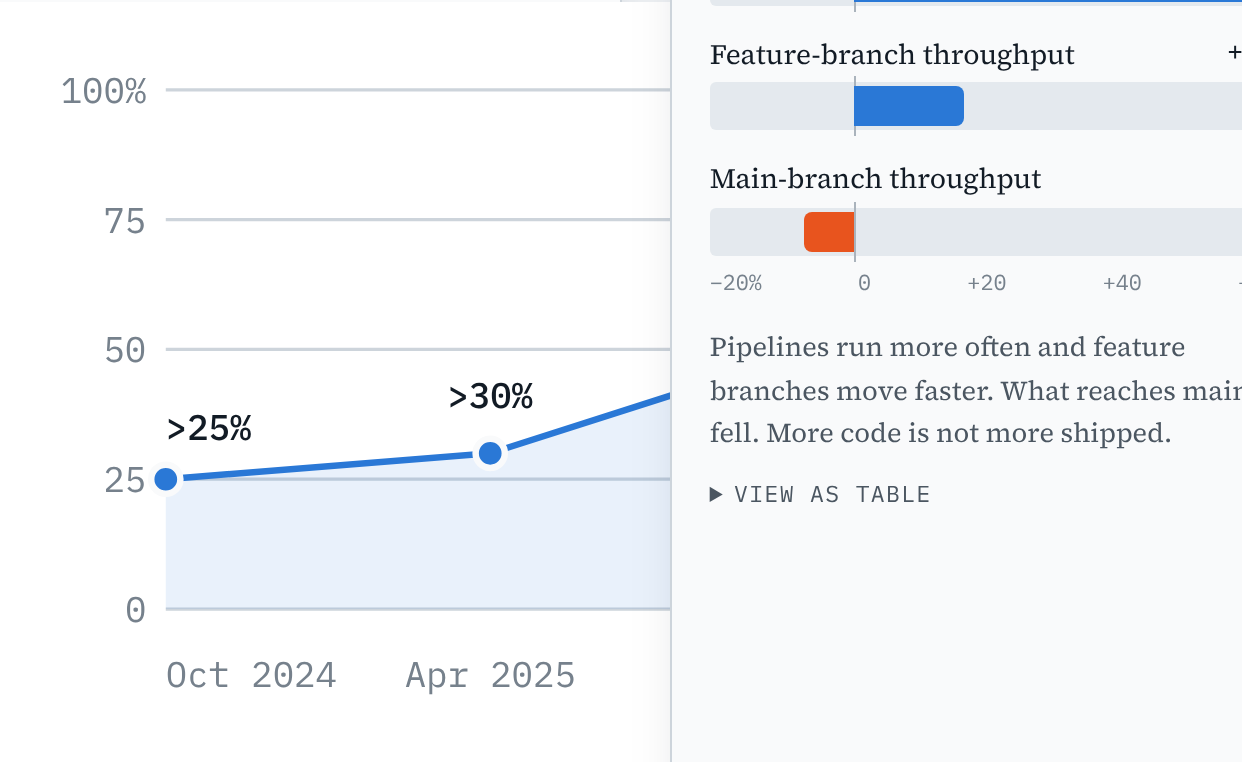
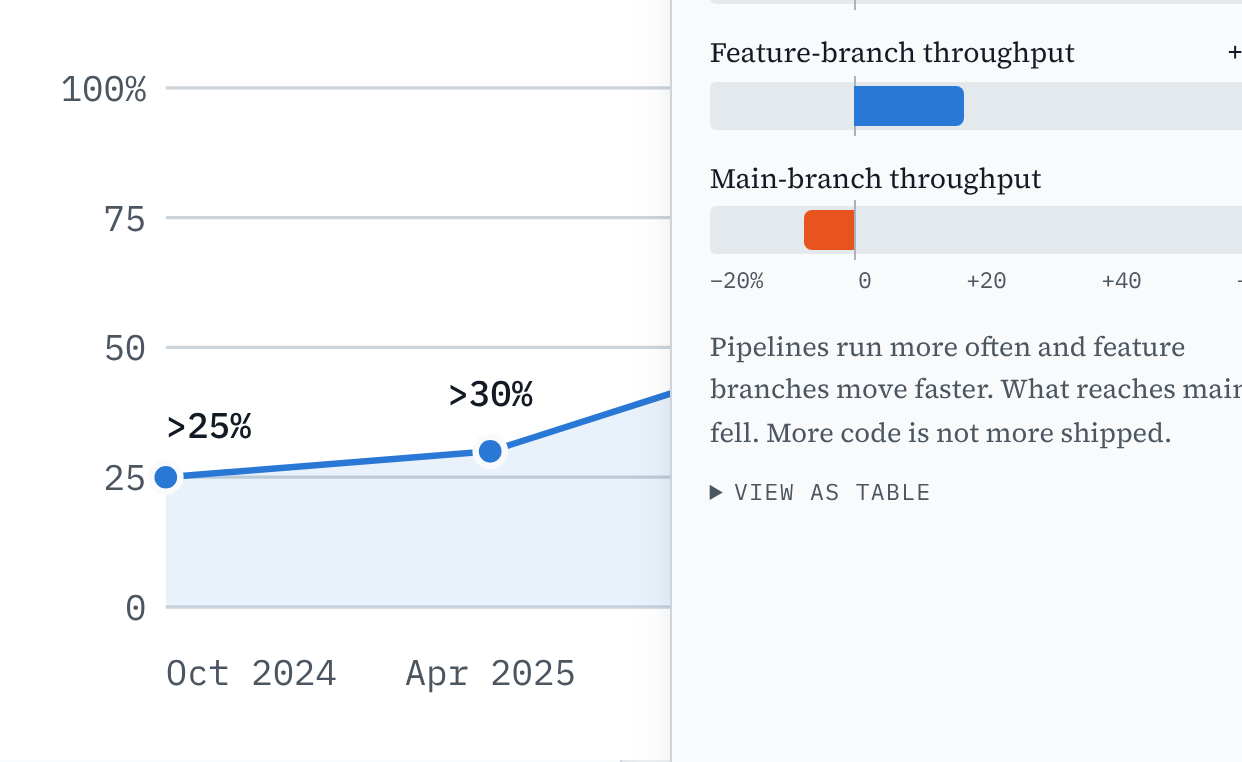
Phase 7: QA, README and PR material
- scripts/check-site.mjs: automated acceptance checks (one h1 and a
  lead per page, identical header, aria-current, links and anchors,
  every source cited, figures with role, label, caption and PNG, chart
  table views, home word budget, theme script order, sitemap, og images,
  no dashes, no overflow at five widths, no console errors, old-anchor
  redirects, theme persistence, live counters, no-JS rendering)
- Performance: the Google Fonts stylesheet no longer blocks render (with
  a noscript fallback), and metric-matched local fallback faces keep the
  font swap from shifting layout; Lighthouse mobile is 100/100/100/100 on
  home and 99/100/100/100 on the software factory page
- Accessibility: faint text raised to the muted token, permalink names
  include their visible text, citation tap areas enlarged, tooltip kept
  out of hit testing until shown
- README page list, file table and scripts; CONTRIBUTING updated for the
  multi-page layout, citations and writing rules
- docs/screenshots: home, software factory and three factories in light
  and dark for the pull request

Claude-Session: https://claude.ai/code/session_017GWBD8DaegsK6NQcPEY7no

diff --git a/assets/site.css b/assets/site.css
@@ -22,9 +22,9 @@
   --accent2: #4a3aa7;     /* model factory mark, shared-floor diagram only */
   --accent2-soft: rgba(74, 58, 167, 0.12);
   --shadow: 0 1px 0 rgba(18, 27, 37, 0.04), 0 12px 32px -20px rgba(18, 27, 37, 0.35);
-  --font-display: "Archivo", "Helvetica Neue", Arial, sans-serif;
-  --font-body: "Source Serif 4", Georgia, "Times New Roman", serif;
-  --font-mono: "IBM Plex Mono", ui-monospace, "SFMono-Regular", Menlo, Consolas, monospace;
+  --font-display: "Archivo", "Archivo Fallback", "Helvetica Neue", Arial, sans-serif;
+  --font-body: "Source Serif 4", "Source Serif 4 Fallback", Georgia, "Times New Roman", serif;
+  --font-mono: "IBM Plex Mono", "IBM Plex Mono Fallback", ui-monospace, "SFMono-Regular", Menlo, Consolas, monospace;
   --measure: 66ch;
   --frame: 1120px;
   --gutter: clamp(16px, 4vw, 40px);
@@ -73,6 +73,12 @@
   --shadow: 0 1px 0 rgba(0, 0, 0, 0.3), 0 12px 32px -20px rgba(0, 0, 0, 0.8);
   color-scheme: dark;
 }
+
+/* ---------- metric-matched fallbacks: the local fonts shown until the web fonts arrive are sized to the same
+   average width and vertical metrics, so the swap does not shift the layout ---------- */
+@font-face { font-family: "Archivo Fallback"; src: local("Arial"), local("Liberation Sans"), local("Helvetica Neue"), local("Helvetica"), local("Roboto"); size-adjust: 104.5%; ascent-override: 84.0%; descent-override: 20.1%; line-gap-override: 0%; }
+@font-face { font-family: "Source Serif 4 Fallback"; src: local("Times New Roman"), local("Liberation Serif"), local("Tinos"), local("Noto Serif"); size-adjust: 119.5%; ascent-override: 86.7%; descent-override: 28.0%; line-gap-override: 0%; }
+@font-face { font-family: "IBM Plex Mono Fallback"; src: local("Courier New"), local("Liberation Mono"), local("Cousine"), local("Roboto Mono"); size-adjust: 100.0%; ascent-override: 102.5%; descent-override: 27.5%; line-gap-override: 0%; }
 
 /* ---------- base ---------- */
 *, *::before, *::after { box-sizing: border-box; }
@@ -238,7 +244,7 @@ tbody tr:hover { background: var(--surface-2); }
 .stat.infra .side::before { background: var(--accent); }
 .stat .value { font-family: var(--font-display); font-weight: 800; font-stretch: 108%; font-size: clamp(2.2rem, 3.6vw, 3rem); line-height: 1; letter-spacing: -0.02em; }
 .stat .label { font-size: 0.98rem; line-height: 1.4; }
-.stat .src { font-family: var(--font-mono); font-size: 0.7rem; color: var(--faint); line-height: 1.4; align-self: end; }
+.stat .src { font-family: var(--font-mono); font-size: 0.72rem; color: var(--muted); line-height: 1.4; align-self: end; }
 
 /* charts */
 .charts { display: grid; grid-template-columns: 1fr; gap: 1.5rem; margin: 2rem 0; }
@@ -255,7 +261,7 @@ tbody tr:hover { background: var(--surface-2); }
 .chart th, .chart td { padding: 0.35rem 0.5rem; }
 .linechart { width: 100%; max-width: 620px; height: auto; font-family: var(--font-mono); }
 .linechart .grid { stroke: var(--line); stroke-width: 1; }
-.linechart .axis-text { fill: var(--faint); font-size: 11px; }
+.linechart .axis-text { fill: var(--muted); font-size: 11px; }
 .linechart .series { fill: none; stroke: var(--blue); stroke-width: 2; stroke-linejoin: round; stroke-linecap: round; }
 .linechart .area { fill: var(--blue); opacity: 0.1; }
 .linechart .pt { fill: var(--blue); stroke: var(--surface); stroke-width: 2; }
@@ -275,17 +281,17 @@ tbody tr:hover { background: var(--surface-2); }
 .bar-fill.hi { background: var(--accent); }
 .bar-fill:hover, .bar-fill:focus { filter: brightness(1.12); }
 .bar-val { font-family: var(--font-mono); font-size: 0.82rem; text-align: right; font-variant-numeric: tabular-nums; }
-.bar-axis { display: flex; justify-content: space-between; font-family: var(--font-mono); font-size: 0.68rem; color: var(--faint); margin-top: 0.3rem; }
+.bar-axis { display: flex; justify-content: space-between; font-family: var(--font-mono); font-size: 0.7rem; color: var(--muted); margin-top: 0.3rem; }
 .bar-axis-wrap { display: block; }
 .bar-axis-wrap > span { display: none; }
 
 /* tooltip */
 .tip {
-  position: fixed; z-index: 100; pointer-events: none; max-width: 280px;
+  position: fixed; left: 0; top: 0; z-index: 100; pointer-events: none; max-width: 280px; visibility: hidden;
   background: var(--fg); color: var(--bg); font-family: var(--font-mono); font-size: 0.74rem; line-height: 1.45;
   padding: 0.5rem 0.65rem; border-radius: 4px; box-shadow: var(--shadow); opacity: 0; transition: opacity 120ms;
 }
-.tip[data-show="true"] { opacity: 1; }
+.tip[data-show="true"] { opacity: 1; visibility: visible; }
 .tip strong { display: block; font-size: 0.95rem; font-family: var(--font-display); font-weight: 700; margin-bottom: 0.15rem; }
 
 /* symmetry */
@@ -566,7 +572,7 @@ blockquote.definition .permalink:hover { color: var(--accent-ink); }
 .copy-cite { border: 1px solid var(--line-strong); background: transparent; color: var(--muted); font: inherit; letter-spacing: inherit; text-transform: inherit; padding: 0.3rem 0.55rem; border-radius: 3px; cursor: pointer; }
 .copy-cite:hover { color: var(--fg); border-color: var(--accent); }
 .copy-cite[data-done="true"] { color: var(--accent-ink); border-color: var(--accent); }
-a.cite { text-decoration: none; color: var(--accent-ink); font-family: var(--font-mono); font-weight: 600; white-space: nowrap; }
+a.cite { text-decoration: none; color: var(--accent-ink); font-family: var(--font-mono); font-weight: 600; white-space: nowrap; padding: 0.45em 0.3em; margin: -0.45em -0.3em; }
 a.cite sup { font-size: 0.7em; line-height: 0; vertical-align: super; padding-left: 0.08em; }
 a.cite:hover sup { text-decoration: underline; }
 a.cite + a.cite sup::before { content: ","; margin-right: 0.12em; }
@@ -578,7 +584,7 @@ a.cite + a.cite sup::before { content: ","; margin-right: 0.12em; }
 .prevnext .k { font-family: var(--font-mono); font-size: 0.66rem; letter-spacing: 0.1em; text-transform: uppercase; color: var(--muted); }
 .prevnext .t { font-family: var(--font-display); font-weight: 650; font-size: 1.05rem; line-height: 1.25; }
 .prevnext a:hover .t { color: var(--accent-ink); }
-.site-footer .sep { margin: 0 0.45rem; color: var(--faint); }
+.site-footer .sep { margin: 0 0.45rem; color: var(--muted); }
 figure.fig .png, figure.chart .png { font-family: var(--font-mono); font-size: 0.68rem; letter-spacing: 0.06em; text-transform: uppercase; margin-left: 0.6rem; white-space: nowrap; }
 .demo-counters.teaser { border: 1px solid var(--line); border-radius: var(--radius); background: var(--surface); box-shadow: var(--shadow); }
 

diff --git a/software-factory/index.html b/software-factory/index.html
@@ -24,8 +24,9 @@
 <script>(function(){try{var t=localStorage.getItem("infra-factory-theme");if(t==="light"||t==="dark"){document.documentElement.setAttribute("data-theme",t);}}catch(e){}})();</script>
 <link rel="preconnect" href="https://fonts.googleapis.com">
 <link rel="preconnect" href="https://fonts.gstatic.com" crossorigin>
-<link rel="stylesheet" href="https://fonts.googleapis.com/css2?family=Archivo:ital,wdth,wght@0,62..125,100..900;1,62..125,100..900&family=IBM+Plex+Mono:wght@400;500;600&family=Source+Serif+4:ital,opsz,wght@0,8..60,300..800;1,8..60,300..800&display=swap">
 <link rel="stylesheet" href="/assets/site.css">
+<link rel="preload" as="style" href="https://fonts.googleapis.com/css2?family=Archivo:ital,wdth,wght@0,62..125,100..900;1,62..125,100..900&family=IBM+Plex+Mono:wght@400;500;600&family=Source+Serif+4:ital,opsz,wght@0,8..60,300..800;1,8..60,300..800&display=swap" onload="this.onload=null;this.rel='stylesheet'">
+<noscript><link rel="stylesheet" href="https://fonts.googleapis.com/css2?family=Archivo:ital,wdth,wght@0,62..125,100..900;1,62..125,100..900&family=IBM+Plex+Mono:wght@400;500;600&family=Source+Serif+4:ital,opsz,wght@0,8..60,300..800;1,8..60,300..800&display=swap"></noscript>
 </head>
 <body data-page="software-factory">
 <a class="skip" href="#main">Skip to content</a>
@@ -65,7 +66,7 @@
     </div>
     <blockquote class="definition" id="sf-definition" data-cite="Körbächer, M. (2026). The Infrastructure Factory. https://infrastructure-factory.com/software-factory/">
       <p>A software factory is a codified, largely automated production system that carries work through the entire software lifecycle: from incoming signals (requests, bugs, alerts) through planning, implementation, verification and release to monitoring. Agents do most of the execution inside standardized workflows and quality gates, humans set intent and approve at defined checkpoints, and the system measures its own runs and feeds what it learns back into itself. Engineers build and tune the factory; the factory builds the product.</p>
-      <footer><a class="permalink" href="#sf-definition" aria-label="Permalink to the software factory definition">#sf-definition</a><button type="button" class="copy-cite">Copy citation</button></footer>
+      <footer><a class="permalink" href="#sf-definition" aria-label="#sf-definition, permalink">#sf-definition</a><button type="button" class="copy-cite">Copy citation</button></footer>
     </blockquote>
     <h3>Shared by N of 13 sources</h3>
     <div class="table-wrap stack consensus">

diff --git a/infrastructure-factory/index.html b/infrastructure-factory/index.html
@@ -24,8 +24,9 @@
 <script>(function(){try{var t=localStorage.getItem("infra-factory-theme");if(t==="light"||t==="dark"){document.documentElement.setAttribute("data-theme",t);}}catch(e){}})();</script>
 <link rel="preconnect" href="https://fonts.googleapis.com">
 <link rel="preconnect" href="https://fonts.gstatic.com" crossorigin>
-<link rel="stylesheet" href="https://fonts.googleapis.com/css2?family=Archivo:ital,wdth,wght@0,62..125,100..900;1,62..125,100..900&family=IBM+Plex+Mono:wght@400;500;600&family=Source+Serif+4:ital,opsz,wght@0,8..60,300..800;1,8..60,300..800&display=swap">
 <link rel="stylesheet" href="/assets/site.css">
+<link rel="preload" as="style" href="https://fonts.googleapis.com/css2?family=Archivo:ital,wdth,wght@0,62..125,100..900;1,62..125,100..900&family=IBM+Plex+Mono:wght@400;500;600&family=Source+Serif+4:ital,opsz,wght@0,8..60,300..800;1,8..60,300..800&display=swap" onload="this.onload=null;this.rel='stylesheet'">
+<noscript><link rel="stylesheet" href="https://fonts.googleapis.com/css2?family=Archivo:ital,wdth,wght@0,62..125,100..900;1,62..125,100..900&family=IBM+Plex+Mono:wght@400;500;600&family=Source+Serif+4:ital,opsz,wght@0,8..60,300..800;1,8..60,300..800&display=swap"></noscript>
 </head>
 <body data-page="infrastructure-factory">
 <a class="skip" href="#main">Skip to content</a>
@@ -68,7 +69,7 @@
       <li>Not an AI factory in NVIDIA's sense. No racks of GPUs turning energy into tokens.</li>
       <li>Not only an account vending machine. It contains vending lines such as AWS Account Factory and Azure subscription vending, and everything around them that a human still adds by hand.</li>
     </ul>
-      <footer><a class="permalink" href="#definition" aria-label="Permalink to the definition">#definition</a><button type="button" class="copy-cite">Copy citation</button></footer>
+      <footer><a class="permalink" href="#definition" aria-label="#definition, permalink">#definition</a><button type="button" class="copy-cite">Copy citation</button></footer>
     </blockquote>
     <ol class="annos">
       <li><span class="n">1</span><div><h4>Platform</h4><p>A production system that a team runs as a product, with customers, a backlog and a service level. Not a project, not a folder of modules, not a committee of approvers. Its operators build the line.</p></div></li>

diff --git a/index.html b/index.html
@@ -24,8 +24,9 @@
 <script>(function(){try{var t=localStorage.getItem("infra-factory-theme");if(t==="light"||t==="dark"){document.documentElement.setAttribute("data-theme",t);}}catch(e){}})();</script>
 <link rel="preconnect" href="https://fonts.googleapis.com">
 <link rel="preconnect" href="https://fonts.gstatic.com" crossorigin>
-<link rel="stylesheet" href="https://fonts.googleapis.com/css2?family=Archivo:ital,wdth,wght@0,62..125,100..900;1,62..125,100..900&family=IBM+Plex+Mono:wght@400;500;600&family=Source+Serif+4:ital,opsz,wght@0,8..60,300..800;1,8..60,300..800&display=swap">
 <link rel="stylesheet" href="/assets/site.css">
+<link rel="preload" as="style" href="https://fonts.googleapis.com/css2?family=Archivo:ital,wdth,wght@0,62..125,100..900;1,62..125,100..900&family=IBM+Plex+Mono:wght@400;500;600&family=Source+Serif+4:ital,opsz,wght@0,8..60,300..800;1,8..60,300..800&display=swap" onload="this.onload=null;this.rel='stylesheet'">
+<noscript><link rel="stylesheet" href="https://fonts.googleapis.com/css2?family=Archivo:ital,wdth,wght@0,62..125,100..900;1,62..125,100..900&family=IBM+Plex+Mono:wght@400;500;600&family=Source+Serif+4:ital,opsz,wght@0,8..60,300..800;1,8..60,300..800&display=swap"></noscript>
 </head>
 <body data-page="home">
 <a class="skip" href="#main">Skip to content</a>
@@ -56,7 +57,7 @@
   <p class="tagline">Everyone is building software factories. Nobody has built the thing they run on.</p>
   <blockquote class="definition" id="definition" data-cite="Körbächer, M. (2026). The Infrastructure Factory. https://infrastructure-factory.com/">
     <p>A platform that turns intents from humans or agents into compliant, owned, observable, cost-attributed environments, with no ticket in the path.</p>
-    <footer><a class="permalink" href="#definition" aria-label="Permalink to the definition">#definition</a><button type="button" class="copy-cite">Copy citation</button></footer>
+    <footer><a class="permalink" href="#definition" aria-label="#definition, permalink">#definition</a><button type="button" class="copy-cite">Copy citation</button></footer>
   </blockquote>
   <div class="btn-row">
     <a class="btn primary" href="/infrastructure-factory/">What it is</a>

diff --git a/sources/index.html b/sources/index.html
@@ -24,8 +24,9 @@
 <script>(function(){try{var t=localStorage.getItem("infra-factory-theme");if(t==="light"||t==="dark"){document.documentElement.setAttribute("data-theme",t);}}catch(e){}})();</script>
 <link rel="preconnect" href="https://fonts.googleapis.com">
 <link rel="preconnect" href="https://fonts.gstatic.com" crossorigin>
-<link rel="stylesheet" href="https://fonts.googleapis.com/css2?family=Archivo:ital,wdth,wght@0,62..125,100..900;1,62..125,100..900&family=IBM+Plex+Mono:wght@400;500;600&family=Source+Serif+4:ital,opsz,wght@0,8..60,300..800;1,8..60,300..800&display=swap">
 <link rel="stylesheet" href="/assets/site.css">
+<link rel="preload" as="style" href="https://fonts.googleapis.com/css2?family=Archivo:ital,wdth,wght@0,62..125,100..900;1,62..125,100..900&family=IBM+Plex+Mono:wght@400;500;600&family=Source+Serif+4:ital,opsz,wght@0,8..60,300..800;1,8..60,300..800&display=swap" onload="this.onload=null;this.rel='stylesheet'">
+<noscript><link rel="stylesheet" href="https://fonts.googleapis.com/css2?family=Archivo:ital,wdth,wght@0,62..125,100..900;1,62..125,100..900&family=IBM+Plex+Mono:wght@400;500;600&family=Source+Serif+4:ital,opsz,wght@0,8..60,300..800;1,8..60,300..800&display=swap"></noscript>
 </head>
 <body data-page="sources">
 <a class="skip" href="#main">Skip to content</a>
@@ -134,7 +135,7 @@
     </div>
     <blockquote class="definition cite-box" id="citation" data-cite="Körbächer, M. (2026). The Infrastructure Factory. https://infrastructure-factory.com/">
       <p class="mono">Körbächer, M. (2026). The Infrastructure Factory. https://infrastructure-factory.com/</p>
-      <footer><a class="permalink" href="#citation" aria-label="Permalink to the citation">#citation</a><button type="button" class="copy-cite">Copy citation</button></footer>
+      <footer><a class="permalink" href="#citation" aria-label="#citation, permalink">#citation</a><button type="button" class="copy-cite">Copy citation</button></footer>
     </blockquote>
   </div>
 </section>

diff --git a/about/index.html b/about/index.html
@@ -24,8 +24,9 @@
 <script>(function(){try{var t=localStorage.getItem("infra-factory-theme");if(t==="light"||t==="dark"){document.documentElement.setAttribute("data-theme",t);}}catch(e){}})();</script>
 <link rel="preconnect" href="https://fonts.googleapis.com">
 <link rel="preconnect" href="https://fonts.gstatic.com" crossorigin>
-<link rel="stylesheet" href="https://fonts.googleapis.com/css2?family=Archivo:ital,wdth,wght@0,62..125,100..900;1,62..125,100..900&family=IBM+Plex+Mono:wght@400;500;600&family=Source+Serif+4:ital,opsz,wght@0,8..60,300..800;1,8..60,300..800&display=swap">
 <link rel="stylesheet" href="/assets/site.css">
+<link rel="preload" as="style" href="https://fonts.googleapis.com/css2?family=Archivo:ital,wdth,wght@0,62..125,100..900;1,62..125,100..900&family=IBM+Plex+Mono:wght@400;500;600&family=Source+Serif+4:ital,opsz,wght@0,8..60,300..800;1,8..60,300..800&display=swap" onload="this.onload=null;this.rel='stylesheet'">
+<noscript><link rel="stylesheet" href="https://fonts.googleapis.com/css2?family=Archivo:ital,wdth,wght@0,62..125,100..900;1,62..125,100..900&family=IBM+Plex+Mono:wght@400;500;600&family=Source+Serif+4:ital,opsz,wght@0,8..60,300..800;1,8..60,300..800&display=swap"></noscript>
 </head>
 <body data-page="about">
 <a class="skip" href="#main">Skip to content</a>
@@ -128,7 +129,7 @@
     </div>
     <blockquote class="definition cite-box" id="citation" data-cite="Körbächer, M. (2026). The Infrastructure Factory. https://infrastructure-factory.com/">
       <p class="mono">Körbächer, M. (2026). The Infrastructure Factory. https://infrastructure-factory.com/</p>
-      <footer><a class="permalink" href="#citation" aria-label="Permalink to the citation">#citation</a><button type="button" class="copy-cite">Copy citation</button></footer>
+      <footer><a class="permalink" href="#citation" aria-label="#citation, permalink">#citation</a><button type="button" class="copy-cite">Copy citation</button></footer>
     </blockquote>
   </div>
 </section>

diff --git a/three-factories/index.html b/three-factories/index.html
@@ -24,8 +24,9 @@
 <script>(function(){try{var t=localStorage.getItem("infra-factory-theme");if(t==="light"||t==="dark"){document.documentElement.setAttribute("data-theme",t);}}catch(e){}})();</script>
 <link rel="preconnect" href="https://fonts.googleapis.com">
 <link rel="preconnect" href="https://fonts.gstatic.com" crossorigin>
-<link rel="stylesheet" href="https://fonts.googleapis.com/css2?family=Archivo:ital,wdth,wght@0,62..125,100..900;1,62..125,100..900&family=IBM+Plex+Mono:wght@400;500;600&family=Source+Serif+4:ital,opsz,wght@0,8..60,300..800;1,8..60,300..800&display=swap">
 <link rel="stylesheet" href="/assets/site.css">
+<link rel="preload" as="style" href="https://fonts.googleapis.com/css2?family=Archivo:ital,wdth,wght@0,62..125,100..900;1,62..125,100..900&family=IBM+Plex+Mono:wght@400;500;600&family=Source+Serif+4:ital,opsz,wght@0,8..60,300..800;1,8..60,300..800&display=swap" onload="this.onload=null;this.rel='stylesheet'">
+<noscript><link rel="stylesheet" href="https://fonts.googleapis.com/css2?family=Archivo:ital,wdth,wght@0,62..125,100..900;1,62..125,100..900&family=IBM+Plex+Mono:wght@400;500;600&family=Source+Serif+4:ital,opsz,wght@0,8..60,300..800;1,8..60,300..800&display=swap"></noscript>
 </head>
 <body data-page="three-factories">
 <a class="skip" href="#main">Skip to content</a>

diff --git a/evidence/index.html b/evidence/index.html
@@ -24,8 +24,9 @@
 <script>(function(){try{var t=localStorage.getItem("infra-factory-theme");if(t==="light"||t==="dark"){document.documentElement.setAttribute("data-theme",t);}}catch(e){}})();</script>
 <link rel="preconnect" href="https://fonts.googleapis.com">
 <link rel="preconnect" href="https://fonts.gstatic.com" crossorigin>
-<link rel="stylesheet" href="https://fonts.googleapis.com/css2?family=Archivo:ital,wdth,wght@0,62..125,100..900;1,62..125,100..900&family=IBM+Plex+Mono:wght@400;500;600&family=Source+Serif+4:ital,opsz,wght@0,8..60,300..800;1,8..60,300..800&display=swap">
 <link rel="stylesheet" href="/assets/site.css">
+<link rel="preload" as="style" href="https://fonts.googleapis.com/css2?family=Archivo:ital,wdth,wght@0,62..125,100..900;1,62..125,100..900&family=IBM+Plex+Mono:wght@400;500;600&family=Source+Serif+4:ital,opsz,wght@0,8..60,300..800;1,8..60,300..800&display=swap" onload="this.onload=null;this.rel='stylesheet'">
+<noscript><link rel="stylesheet" href="https://fonts.googleapis.com/css2?family=Archivo:ital,wdth,wght@0,62..125,100..900;1,62..125,100..900&family=IBM+Plex+Mono:wght@400;500;600&family=Source+Serif+4:ital,opsz,wght@0,8..60,300..800;1,8..60,300..800&display=swap"></noscript>
 </head>
 <body data-page="evidence">
 <a class="skip" href="#main">Skip to content</a>

diff --git a/lineage/index.html b/lineage/index.html
@@ -24,8 +24,9 @@
 <script>(function(){try{var t=localStorage.getItem("infra-factory-theme");if(t==="light"||t==="dark"){document.documentElement.setAttribute("data-theme",t);}}catch(e){}})();</script>
 <link rel="preconnect" href="https://fonts.googleapis.com">
 <link rel="preconnect" href="https://fonts.gstatic.com" crossorigin>
-<link rel="stylesheet" href="https://fonts.googleapis.com/css2?family=Archivo:ital,wdth,wght@0,62..125,100..900;1,62..125,100..900&family=IBM+Plex+Mono:wght@400;500;600&family=Source+Serif+4:ital,opsz,wght@0,8..60,300..800;1,8..60,300..800&display=swap">
 <link rel="stylesheet" href="/assets/site.css">
+<link rel="preload" as="style" href="https://fonts.googleapis.com/css2?family=Archivo:ital,wdth,wght@0,62..125,100..900;1,62..125,100..900&family=IBM+Plex+Mono:wght@400;500;600&family=Source+Serif+4:ital,opsz,wght@0,8..60,300..800;1,8..60,300..800&display=swap" onload="this.onload=null;this.rel='stylesheet'">
+<noscript><link rel="stylesheet" href="https://fonts.googleapis.com/css2?family=Archivo:ital,wdth,wght@0,62..125,100..900;1,62..125,100..900&family=IBM+Plex+Mono:wght@400;500;600&family=Source+Serif+4:ital,opsz,wght@0,8..60,300..800;1,8..60,300..800&display=swap"></noscript>
 </head>
 <body data-page="lineage">
 <a class="skip" href="#main">Skip to content</a>

diff --git a/metrics/index.html b/metrics/index.html
@@ -24,8 +24,9 @@
 <script>(function(){try{var t=localStorage.getItem("infra-factory-theme");if(t==="light"||t==="dark"){document.documentElement.setAttribute("data-theme",t);}}catch(e){}})();</script>
 <link rel="preconnect" href="https://fonts.googleapis.com">
 <link rel="preconnect" href="https://fonts.gstatic.com" crossorigin>
-<link rel="stylesheet" href="https://fonts.googleapis.com/css2?family=Archivo:ital,wdth,wght@0,62..125,100..900;1,62..125,100..900&family=IBM+Plex+Mono:wght@400;500;600&family=Source+Serif+4:ital,opsz,wght@0,8..60,300..800;1,8..60,300..800&display=swap">
 <link rel="stylesheet" href="/assets/site.css">
+<link rel="preload" as="style" href="https://fonts.googleapis.com/css2?family=Archivo:ital,wdth,wght@0,62..125,100..900;1,62..125,100..900&family=IBM+Plex+Mono:wght@400;500;600&family=Source+Serif+4:ital,opsz,wght@0,8..60,300..800;1,8..60,300..800&display=swap" onload="this.onload=null;this.rel='stylesheet'">
+<noscript><link rel="stylesheet" href="https://fonts.googleapis.com/css2?family=Archivo:ital,wdth,wght@0,62..125,100..900;1,62..125,100..900&family=IBM+Plex+Mono:wght@400;500;600&family=Source+Serif+4:ital,opsz,wght@0,8..60,300..800;1,8..60,300..800&display=swap"></noscript>
 </head>
 <body data-page="metrics">
 <a class="skip" href="#main">Skip to content</a>

diff --git a/README.md b/README.md
@@ -29,10 +29,12 @@ the symmetry with the software factory, why the hard part is ownership rather th
 lineage from Kessel Run to Platform One, one production line built from open source building blocks,
 why a cloud factory is the easy case, six metrics, and twelve factors.
 
-The site is a single static page. It covers:
+The site is static: nine pages, one stylesheet, one script. Together they cover:
 
 - the working definition and what the term does not mean
-- a detailed section on what an Infrastructure Factory is: the definition taken apart, the eight parts it is made of, what it is not, a ladder from ticket desk to factory, and a test for whether you have one
+- what a software factory is, from thirteen of its own sources, and why it needs an infrastructure factory
+- what an infrastructure factory is: the definition taken apart, the parts it is made of, what it is not, the line and its loop, a ladder from ticket desk to factory, and a test for whether you have one
+- how the software, AI and infrastructure factories share a floor without sharing a product
 - a live two-lane queue model of the thesis
 - the evidence that the bottleneck moved from code to delivery (Google, Uber, Faros AI, CircleCI, GKE)
 - the symmetry between the software factory and the infrastructure factory
@@ -42,15 +44,41 @@ The site is a single static page. It covers:
 - why a cloud Infrastructure Factory is the easy case: NIST's five cloud characteristics as the yardstick, what changes on the line off the cloud, and four terrains (hyperscaler, virtualization estates, bare metal and edge, sovereign and regulated)
 - six metrics, the DORA equivalents for environments, with a Little's law calculator
 - a short manifesto and the twelve factors of an Infrastructure Factory
-- prior art and the caveats on every figure
+- prior art, the lineage, and the caveats on every figure
+- three diagrams, with PNG exports for slides and articles
+
+## Pages
+
+| Route | Job |
+|---|---|
+| `/` | The pitch: definition, the shift in three numbers, the live-model teaser, the three roles of infrastructure, the overlap with NVIDIA's AI factory, the five-line test, where to start |
+| `/software-factory/` | What a software factory is (a consensus definition from thirteen sources), its loop, the floor it runs on, the gap, and why it needs an infrastructure factory |
+| `/infrastructure-factory/` | The definition taken apart, components, what it is not, the seven-station line, the loop, the workers, the twelve factors, the checklist, the maturity ladder, where to start |
+| `/three-factories/` | Software, AI and infrastructure factories: three products, the shared floor, seams and owners, the glue |
+| `/evidence/` | The full live model, the figures and charts, the four pressures, the terrain analysis |
+| `/metrics/` | Six metrics with their software-side counterparts, Little's law, outcomes not tokens |
+| `/lineage/` | The timeline from 1968 to Platform One, and who already uses the words |
+| `/sources/` | Every figure, numbered; caveats; how to cite |
+| `/about/` | Author, status and changelog, published in, follow, contribute, cite, diagrams |
+
+Old single-page anchors such as `/#factors` redirect to the new pages.
 
 ## Files
 
 | Path | Purpose |
 |---|---|
-| `index.html` | The page |
+| `index.html`, `<slug>/index.html` | The nine pages. The header, footer and head block are duplicated on every page and must stay identical |
 | `assets/site.css` | Styles, light and dark, driven by design tokens on `:root` |
-| `assets/site.js` | Theme switch, section nav, tooltips, the calculator and the queue model |
+| `assets/site.js` | Old-anchor redirects, theme switch, menu, citation copy, tooltips, the calculator and the queue model |
+| `assets/img/*.png` | 2x PNG exports of every diagram, linked from each figure and from `/about/#diagrams` |
+| `assets/img/og/*.png` | 1200x630 title cards used as `og:image` |
+| `sitemap.xml`, `robots.txt`, `CNAME`, `.nojekyll` | Deployment files for GitHub Pages at infrastructure-factory.com |
+| `scripts/check-nav.sh` | Dev-only: fails if the header block differs between pages |
+| `scripts/check-site.mjs` | Dev-only: the acceptance checks (headings, links, sources, figures, dashes, overflow, redirects, theme, no-JS) |
+| `scripts/export-png.mjs`, `scripts/og-template.html` | Dev-only: renders the diagram PNGs and the title cards |
+| `docs/screenshots/` | Screenshots used in pull requests |
+
+The scripts need Node and Playwright with Chromium (`npm i -D playwright && npx playwright install chromium`). The deploy does not depend on them; their output is committed.
 
 ## Run it locally
 
@@ -58,12 +86,21 @@ The site is a single static page. It covers:
 python3 -m http.server 8000
 ```
 
-Then open <http://localhost:8000>. There is no build step and no dependency besides Google Fonts.
+Then open <http://localhost:8000>. Links are root-relative, so serve the repository root, not a subfolder. There is no build step and no dependency besides Google Fonts.
+
+Before opening a pull request, run the checks:
+
+```sh
+sh scripts/check-nav.sh
+node scripts/check-site.mjs
+```
+
+If you changed a diagram, regenerate the PNGs with `node scripts/export-png.mjs` and commit them.
 
 ## Deploy
 
 GitHub Pages serves it as is: Settings, Pages, deploy from a branch, pick `main` and the root folder.
-The `.nojekyll` file keeps Pages from running Jekyll over the assets.
+`CNAME` points the site at infrastructure-factory.com, and `.nojekyll` keeps Pages from running Jekyll over the assets.
 
 ## Content
 

diff --git a/CONTRIBUTING.md b/CONTRIBUTING.md
@@ -38,9 +38,10 @@ Pull requests are welcome for anything concrete:
 For a larger change, such as a new section, a new factor, or a different metric set, open a
 discussion first so the idea can be shaped before the writing is done.
 
-### How to work on the page
+### How to work on the pages
 
-The site is static: `index.html`, `assets/site.css` and `assets/site.js`, no build step.
+The site is static: nine pages (`index.html` and `<slug>/index.html`), one stylesheet and one
+script, no build step. Links are root-relative, so serve the repository root.
 
 ```sh
 git clone https://github.com/mkorbi/infrastructure-factory.git
@@ -51,6 +52,24 @@ python3 -m http.server 8000
 Open <http://localhost:8000>. Before you push, check the page at about 400px width and in
 both themes; the theme switch is in the top right. Colors and fonts are tokens on `:root`
 at the top of the stylesheet, so a visual change usually touches one line.
+
+The header block is duplicated on every page and must stay identical; `sh scripts/check-nav.sh`
+checks it. `node scripts/check-site.mjs` runs the rest of the acceptance checks (one heading per
+page, links and anchors, every source cited, figures with captions and PNGs, no overflow, old
+anchors redirecting, theme persistence, pages working without JavaScript). Both need Node and
+Playwright with Chromium.
+
+### Sources and citations
+
+Every figure and quote carries a numbered citation linking to `/sources/#sN`. New sources are
+appended to the end of the list on `/sources/`; existing entries are never renumbered. Mark
+vendor-reported and self-reported figures as such where they appear.
+
+### Writing style
+
+Plain, direct, specific. No em dashes or en dashes used as dashes; use commas, colons,
+parentheses or a new sentence. No marketing adjectives. Sentences under 25 words where
+possible. The first sentence of every page and section states its point.
 
 ## Ground rules
 
